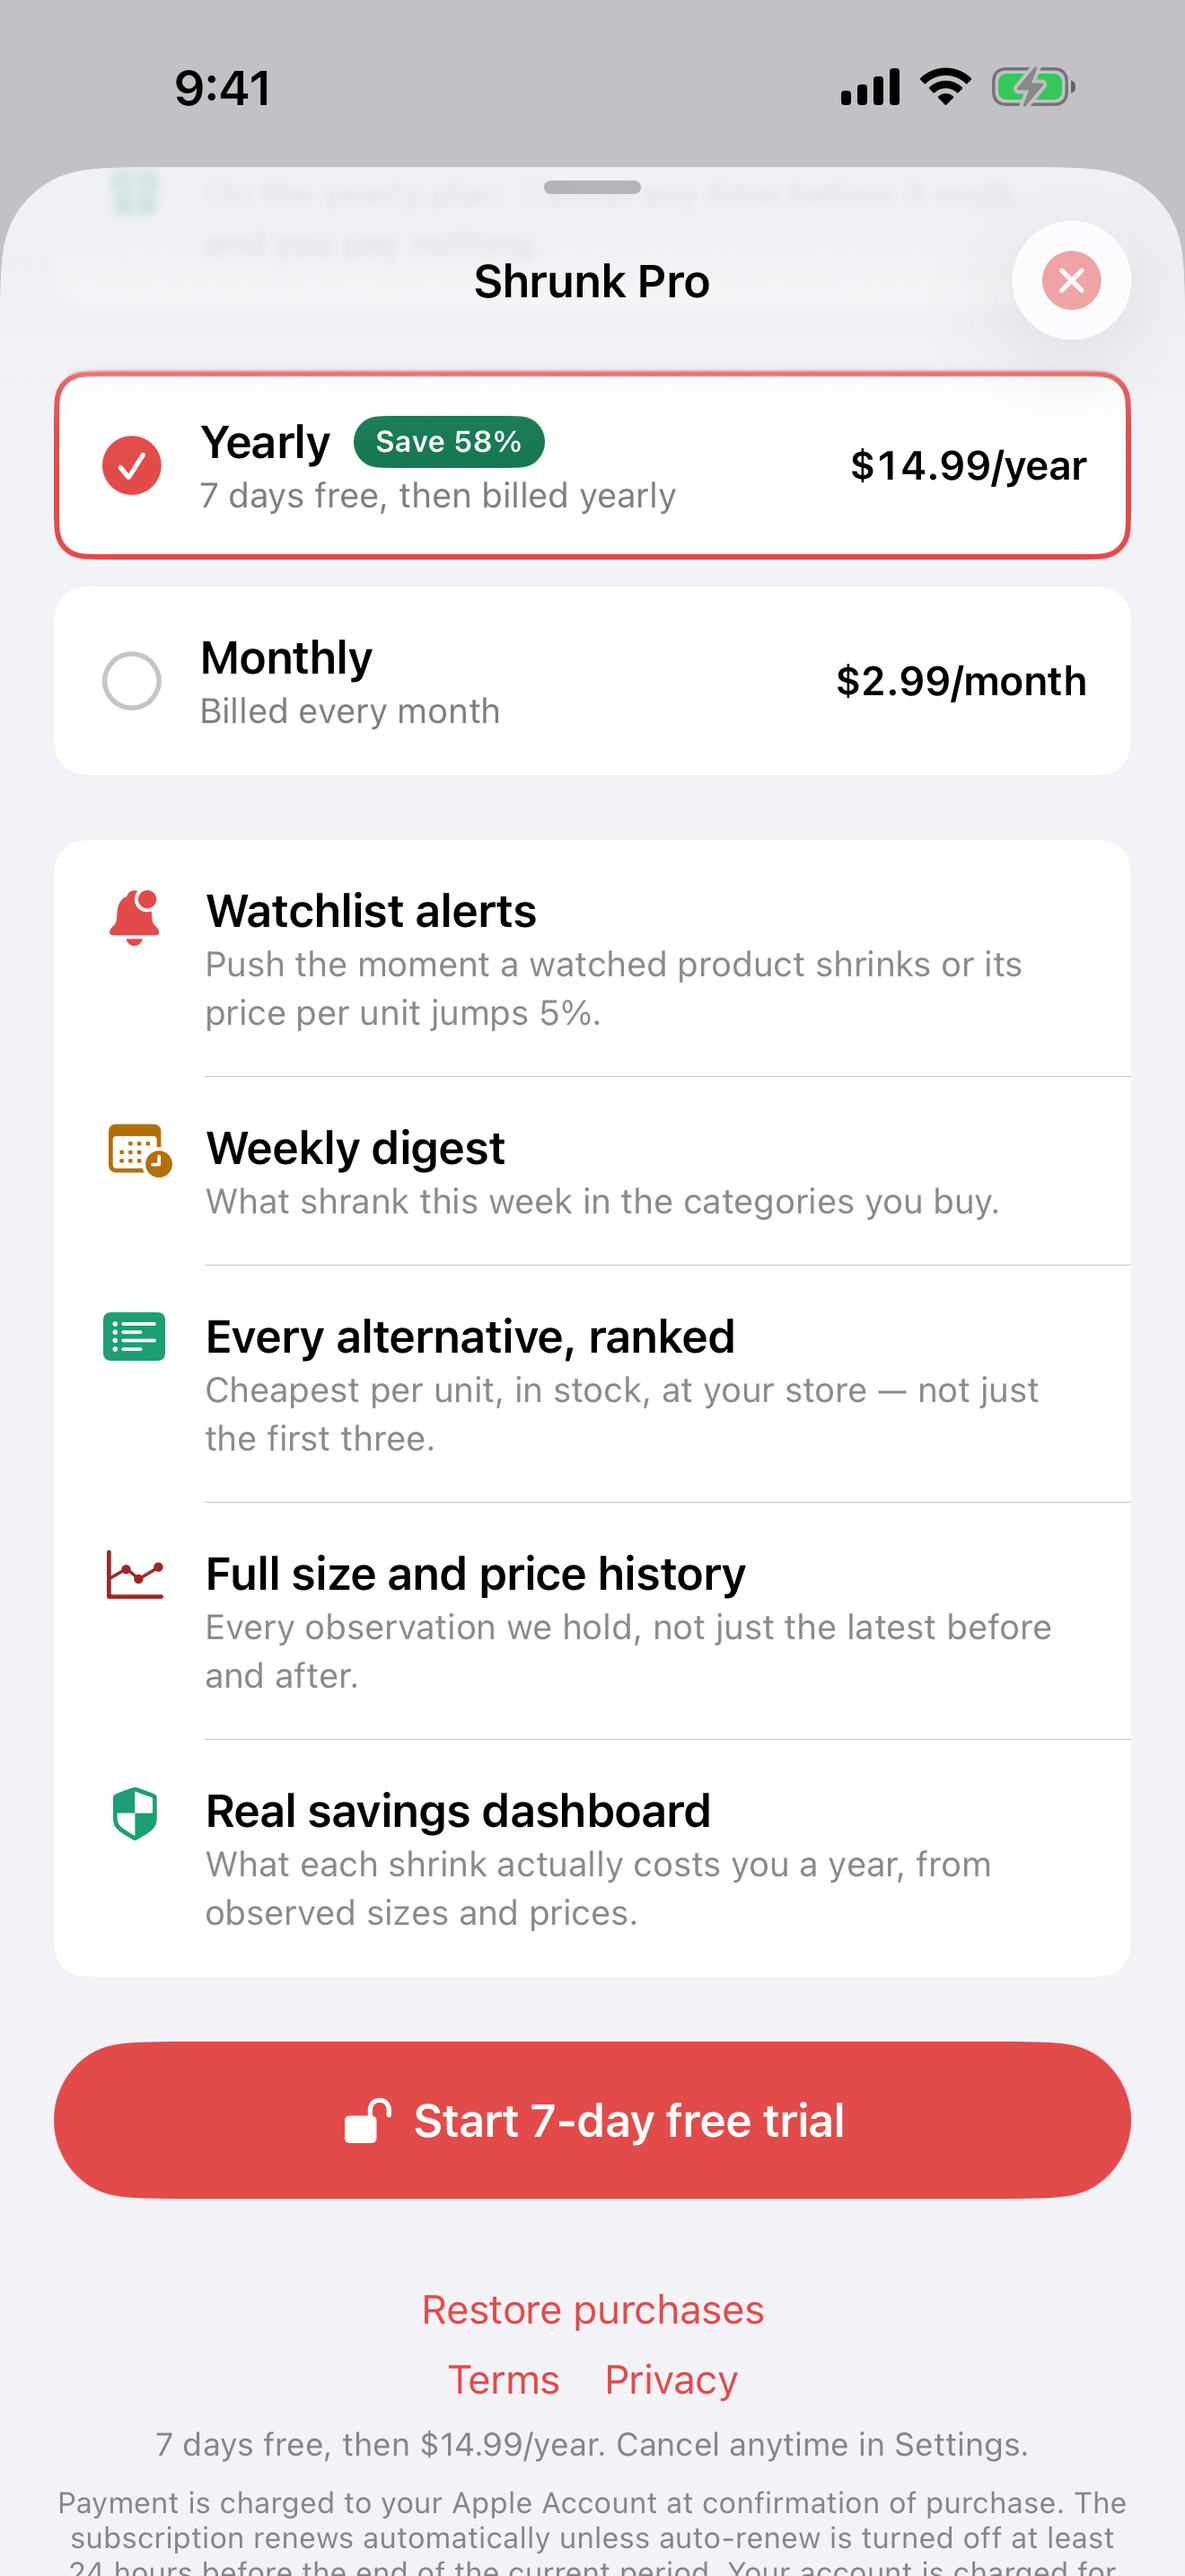
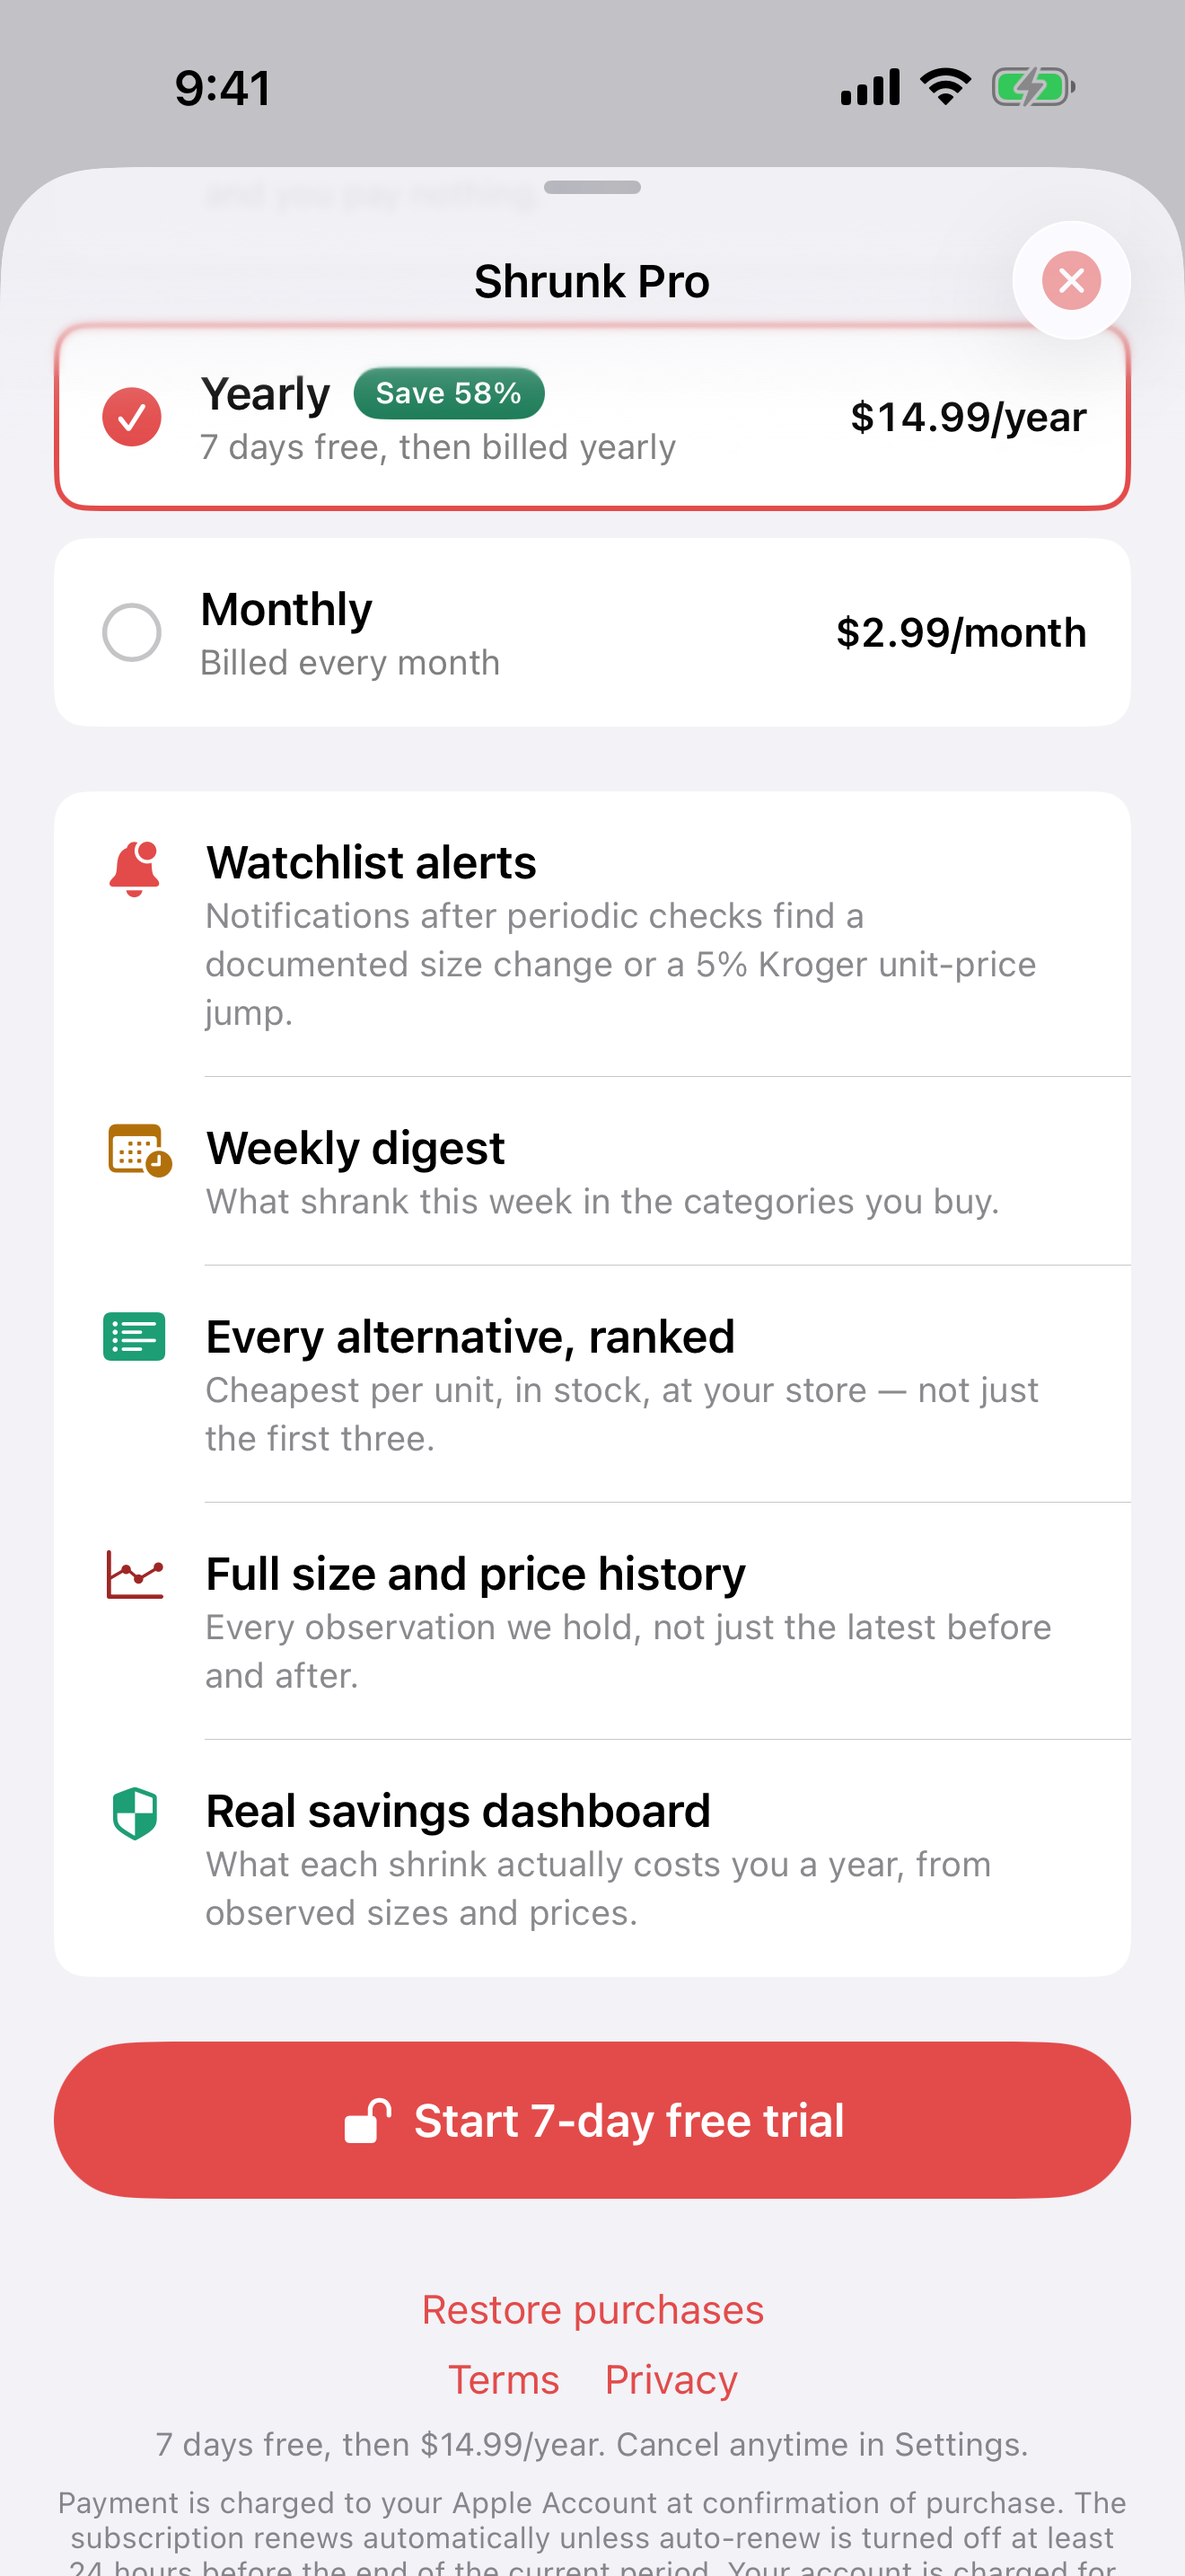
release: prepare Shrunk build 5

diff --git a/site/app/privacy/page.tsx b/site/app/privacy/page.tsx
@@ -75,14 +75,11 @@ const STORED: {
   {
     what: "A label photo you choose to contribute",
     when: "Uploaded to our server with every contribution",
-    where:
-      "Held only in memory unless the reading needs a human check, in which case it is written to Cloudflare R2",
+    where: "Written to Cloudflare R2 in a private human-review queue",
     howLong: (
       <>
-        <strong className="text-foreground">Discarded immediately</strong> (never stored) if
-        accepted automatically; otherwise{" "}
-        <strong className="text-foreground">deleted the moment it is reviewed</strong>, accepted
-        or rejected
+        <strong className="text-foreground">Deleted the moment it is reviewed</strong>, whether
+        accepted or rejected
       </>
     ),
   },
@@ -140,7 +137,7 @@ export default function ShrunkPrivacy() {
         <h1 className="text-3xl font-bold tracking-tight text-foreground md:text-4xl">
           Privacy Policy
         </h1>
-        <p className="mt-3 text-sm text-muted">Last updated: August 26, 2026</p>
+        <p className="mt-3 text-sm text-muted">Last updated: September 8, 2026</p>
       </header>
 
       <div className="space-y-10 text-[15px] leading-relaxed">
@@ -181,14 +178,11 @@ export default function ShrunkPrivacy() {
             with Apple&apos;s on-device Vision framework to make an initial read. When you
             submit, the photo is uploaded to our server along with that reading,{" "}
             <strong className="text-foreground">every time</strong> — not only when the reading
-            is unclear. If the reading is confident (a clear net-weight line that agrees with
-            what we already know about the product), the submission is accepted automatically
-            and the photo is{" "}
-            <strong className="text-foreground">discarded immediately and never stored</strong>.
-            If it is not confident, the photo is written to storage so a human can check it, and
-            it is deleted as soon as that check happens, whether the submission is accepted or
-            rejected. The number that survives review becomes part of the product&apos;s public
-            size history and is not attributed to you.
+            is unclear. Every contribution is written to a private review queue so a human can
+            compare the submitted reading with the label. The photo is deleted as soon as that
+            review is accepted or rejected. No crowd reading becomes public and no alert is sent
+            before this review. The number that survives review becomes part of the
+            product&apos;s public size history and is not attributed to you.
           </p>
           <p className="mt-3">
             Barcode scanning is separate, and no image ever leaves your phone: camera frames are

diff --git a/docs/STATUS.md b/docs/STATUS.md
@@ -4,11 +4,11 @@ Read this first in a new session. Memory/ledgers may lag; this file and `git log
 
 ## Headline
 
-**Shrunk 2.0.0 build 5 is prepared locally for the evidence-first scan update.** App Store Connect version `5f72dc64-9424-49a8-80b9-b18eeca085ba` is `DEVELOPER_REJECTED`; its former review submission `bdce0306-43d6-4ee5-a243-ef81193a575d` is complete with every item removed. There is no active review submission, so build 5 is safe to finish and upload when approved.
+**Shrunk 2.0.0 build 5 is prepared for the evidence-first scan update, with its matching production services deployed.** App Store Connect version `5f72dc64-9424-49a8-80b9-b18eeca085ba` is `DEVELOPER_REJECTED`; its former review submission `bdce0306-43d6-4ee5-a243-ef81193a575d` is complete with every item removed. There is no active review submission, so build 5 is safe to finish and upload when approved.
 
 Build 5 changes the common scan path: Result identifies documented package downsizing separately from price evidence, shows the evidence source and current unit price above the fold, uses correct mass/volume/count units, and pins the next useful action. Scanner adds prominent manual entry and validates the GS1 check digit for camera and typed barcodes. Onboarding reaches value before purchase, Watch intent survives the Pro sheet, and notification permission is requested only after a successful Watch action. Every crowd observation remains pending for human label review before it can publish or alert. Build 5 also adds the Scanned Delta app icon and a matching static launch screen.
 
-Validated 2026-09-08: generic iOS Simulator build passed; all **326 non-StoreKit iOS unit tests** passed; focused Result and Scan screenshot UI tests passed; Worker TypeScript passed; all **391 Worker tests** passed. The command-line StoreKit service hung during the full scheme run, matching the known local daemon fault, so purchase acceptance remains an on-device requirement. Screenshot result bundle: `/tmp/shrunk-build5-evidence-2.xcresult`. Backend integrity changes are local and are **not deployed**. Build 5 is **not uploaded** to TestFlight or App Store Connect.
+Validated 2026-09-08: generic iOS Simulator build passed; all **326 non-StoreKit iOS unit tests** passed; all **6 App Store screenshot UI tests** passed against production; Worker TypeScript passed; all **391 Worker tests** passed; repository data and curated copies are consistent. The command-line StoreKit service hung during the full scheme run, matching the known local daemon fault, so purchase acceptance remains an on-device requirement. Screenshot result bundle: `/tmp/shrunk-build5-shots-final.xcresult`. The always-pending evidence gate is live in Worker version `349b6385-683f-4aa6-a6ce-6def22286e33`; the September 8 privacy policy is live in Vercel deployment `dpl_8skMj5GBm198pXDaKJyuHA9UuD7h`. Build 5 is **not uploaded** to TestFlight or App Store Connect yet.
 
 ## What shipped since the first TestFlight build (2.0.0 / 2)
 
@@ -28,24 +28,22 @@ Spec for all of it: `docs/superpowers/specs/2026-08-27-scan-value-and-native-ui.
 
 Previous release baseline: 305 iOS unit + 6 UI (StoreKit daemon tests skipped — machine bug FB22237318), 387 Worker, 93 Python. Build 5 adds focused iOS coverage and brings the Worker suite to 391 tests.
 
-Worker: `https://shrunk-api.stackcurious.workers.dev` (last deploy `c03ffc3f-7780-40b2-8dae-1ea1436a8af3`). Secrets/keys: `~/.config/shrunk/`, `~/.appstoreconnect/private_keys/AuthKey_Q32YKM5PDY.p8`.
+Worker: `https://shrunk-api.stackcurious.workers.dev` (last deploy `349b6385-683f-4aa6-a6ce-6def22286e33`). Secrets/keys: `~/.config/shrunk/`, `~/.appstoreconnect/private_keys/AuthKey_Q32YKM5PDY.p8`.
 
-## Marketing site (separate repo `~/Projects/stackcurious`, Next.js on Vercel)
+## Marketing site (`site/`, its own Vercel project)
 
-Rebuilt `/shrunk` as a conversion page + `/shrunk/shrinkflation` index + one page per verified case (25), Smart App Banner, JSON-LD, OG image, sitemap; privacy/terms/support match `docs/`. Commits `f887e45`, `6bd1fe3`, `e116224`, `a71bf63`, `72af365` on `main` — **NOT pushed**: another session has unpushed shiftcheck commits on the same branch and Vercel deploys on push. Push when that work is ready. App Store link used: `https://apps.apple.com/us/app/shrunk-shrinkflation-scanner/id6805856154` (404 until approved).
+`/shrunk` is a conversion page with a `/shrunk/shrinkflation` index and one page per verified case (25), Smart App Banner, JSON-LD, OG image, and sitemap. Privacy, terms, and support are served by the guarded `shrunk` Vercel project through the public `stackcurious.com/shrunk/*` rewrites. The September 8 policy is deployed and verified. App Store link used: `https://apps.apple.com/us/app/shrunk-shrinkflation-scanner/id6805856154` (404 until approved).
 
 ## Open items
 
 User-only:
 1. `privacy@stackcurious.com` must exist (published contact in privacy policy, terms, and ASC).
 2. Rotate the Kroger client secret (it was pasted in chat) → `cd backend && npx wrangler secret put KROGER_CLIENT_SECRET`.
-3. Push `stackcurious/main` (see above).
-4. On-device acceptance run per `scripts/acceptance.md` (scans, first production push, sandbox purchase of yearly w/ trial) — not done; App Review may surface what it would have.
-5. Kroger written-permission reply (Gmail thread `1a043dfa17862f3c`, sent 2026-08-27) — none yet; `KROGER_PERSIST=on` until then, `POST /v1/admin/purge-kroger` is the retraction.
+3. On-device acceptance run per `scripts/acceptance.md` (scans, first production push, sandbox purchase of yearly w/ trial) — not done; App Review may surface what it would have.
+4. Kroger written-permission reply (Gmail thread `1a043dfa17862f3c`, sent 2026-08-27) — none yet; `KROGER_PERSIST=on` until then, `POST /v1/admin/purge-kroger` is the retraction.
 
 Engineering, next:
-- Complete an on-device acceptance run for build 5, then archive/upload from a clean worktree (`.build3-report.md` has the commands). Attach the new build to version `5f72dc64-…` and resubmit it with both subscriptions.
-- Deploy the evidence-gate Worker change before releasing build 5 so typed crowd submissions cannot publish without label evidence.
+- Archive/upload build 5 from the committed release head, attach it to version `5f72dc64-…`, complete the on-device TestFlight acceptance run, and resubmit it with both subscriptions.
 - Optional value work: import archived FDC releases (2019–2025) for more "before" points; the digest/sweep run-collapse question in spec §5.1.
 - Hygiene: `ProductThumb.swift`/`StatBox` were deleted; the `.claude/worktrees/agent-a13336e8bb2ff43b9` worktree is merged and harness-locked — safe to remove.
 

diff --git a/docs/ASC_SETUP.md b/docs/ASC_SETUP.md
@@ -149,7 +149,9 @@ No HealthKit, no location, no contacts, no photo library, no microphone. The lab
 ## 7. Reviewer Note (paste into "App Review Information → Notes")
 
 ```
-Shrunk has no account or login — open the app and start scanning immediately. Shrunk Pro is an auto-renewable subscription in the "Shrunk Pro" group: com.shrunk.pro.yearly ($14.99/year, with a 7-day free trial) and com.shrunk.pro.monthly ($2.99/month). Either one unlocks watchlist alerts, the weekly digest, unlimited ranked alternatives, full size and price history, and the savings dashboard; scanning, verdicts, size history and three alternatives are free forever. Use a StoreKit sandbox account to test. Product size history comes from the public USDA FoodData Central dataset and from shoppers' own label photos; live prices come from Kroger's official Products API and are shown with "Prices from Kroger" attribution.
+Shrunk has no account or login. Complete the short onboarding, then scan a supported grocery barcode or tap Enter barcode. For a reliable review path, enter 0052000135138 to see a documented package-size reduction. Size history and alternatives appear when supporting data is available. Shopper label contributions remain private until a human verifies the photo; they cannot enter public history or trigger alerts before review. Current store price, promotion, stock, and comparable alternatives are available for a selected Kroger store and display "Prices from Kroger" attribution.
+
+Shrunk Pro is an auto-renewable subscription in the "Shrunk Pro" group: com.shrunk.pro.yearly ($14.99/year, with a 7-day free trial for new subscribers) and com.shrunk.pro.monthly ($2.99/month). Either plan unlocks periodically checked watchlist alerts, the weekly digest, all available ranked alternatives, full available size and price history charts, and the savings dashboard. Barcode scanning and available evidence results remain free. Use a StoreKit sandbox account to test purchase and restore.
 ```
 
 ---
